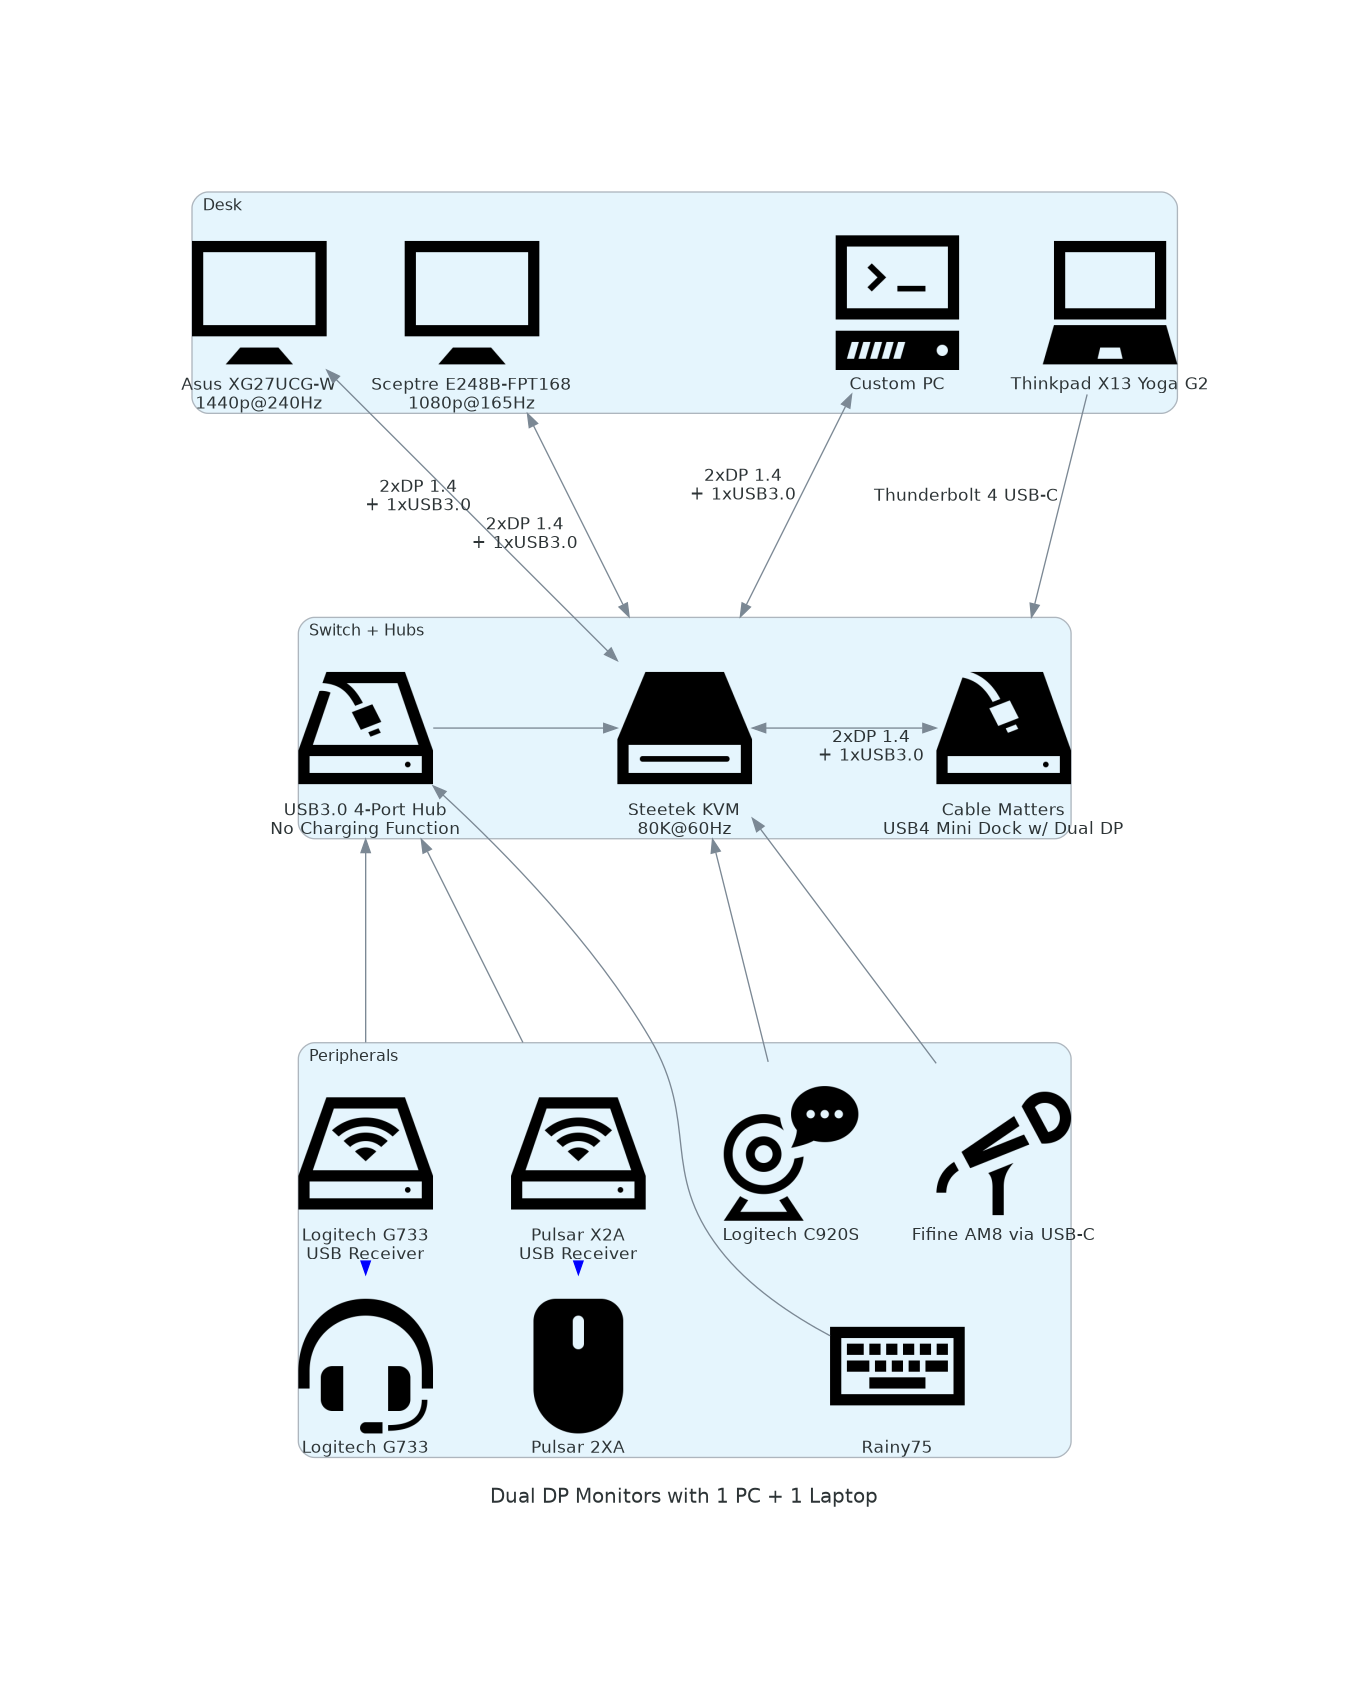
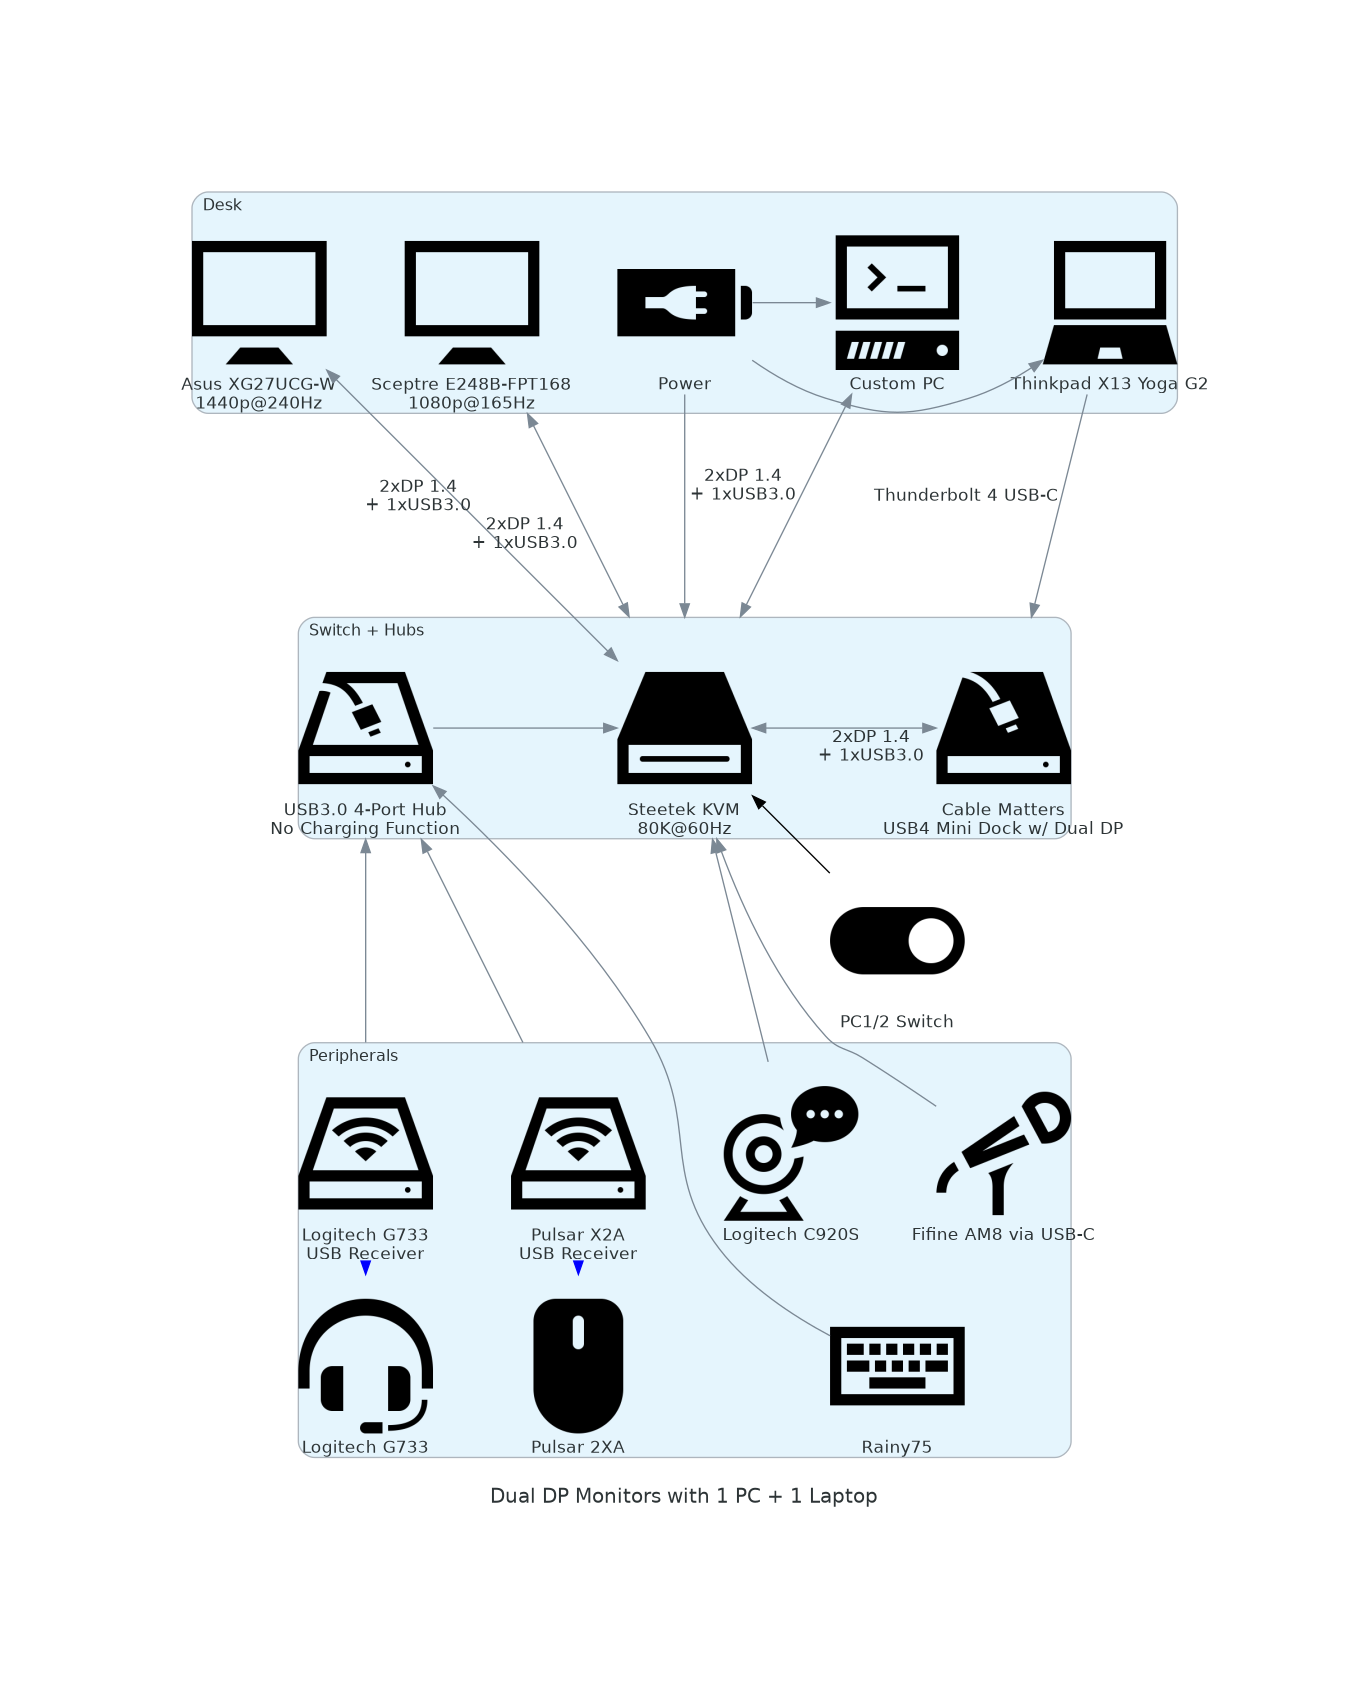
Edited intro to README.md

Changed region(s): [[0.5829, 0.5278, 0.7056, 0.621], [0.4295, 0.1552, 0.5522, 0.2484], [0.5522, 0.4657, 0.5829, 0.4968]]

diff --git a/main.py b/main.py
@@ -20,6 +20,9 @@ with Diagram("\nDual DP Monitors with 1 PC + 1 Laptop",
     direction="TB",
     graph_attr=graph_attr) as diag:
 
+    outlet = Custom("Power", "./icons/outlet.png", pin="true", pos="2,5")
+    switch = Custom("PC1/2 Switch", "./icons/switch.png", pin="true", pos="3,2")
+
     with Cluster("Desk"):
         with Cluster("Monitors"):
             main_screen = Custom("Asus XG27UCG-W\n1440p@240Hz", "./icons/screen.png", pin="true", pos="0,5")
@@ -44,7 +47,9 @@ with Diagram("\nDual DP Monitors with 1 PC + 1 Laptop",
             headset_usb = Custom("Logitech G733\nUSB Receiver", "./icons/usb.png", pin="true", pos="0.5,1")
             mouse_usb = Custom("Pulsar X2A\nUSB Receiver", "./icons/usb.png", pin="true", pos="1.5,1")
 
-    laptop >> Edge(label="Thunderbolt 4 USB-C")>>tb4_dock
+    laptop >> Edge(label="Thunderbolt 4 USB-C") >> tb4_dock
+    outlet >> [computer, laptop, kvm_switch]
+    
     kvm_switch << Edge(label="2xDP 1.4\n+ 1xUSB3.0") >> [
         main_screen,
         second_screen,
@@ -60,6 +65,8 @@ with Diagram("\nDual DP Monitors with 1 PC + 1 Laptop",
         mouse_usb,
         keyboard,
     ]
+    kvm_switch << Edge(color="yellow,") << switch
+
     headset_usb >> Edge(color="blue", style="dashed") >> headset
     mouse_usb >> Edge(color="blue", style="dashed") >> mouse
     

diff --git a/README.md b/README.md
@@ -1,11 +1,16 @@
+#KVM Setup Dual Displays with 1 PC + 1 Laptop
+##A solution for home office users with a two devices and way too many peripherals to manage
+
+#The Problem
 When I started WFH, I had a problem. I was constantly swapping cables from my home PC to my work laptop trying to use the personally curated selection of peripherals I already had. Instead of buying another keyboard, mouse, etc. and creating a separate workspace, I needed a solution that would make this switch between my PC and laptop frictionless. I had a few requirements going into my research. 
 
-Requirements:
-- Support Dual DisplayPort 1.4
-- Simultaneously handle 1440p@240Hz & 1080p@165Hz
-- EDID emulation (more on that later)
-- Enough ports for at least 4 USB devices (keyboard, mouse, microphone, webcam)
+#Requirements
+*Support Dual DisplayPort 1.4
+*Simultaneously handle 1440p@240Hz & 1080p@165Hz
+*EDID emulation (more on that later)
+*Enough ports for at least 4 USB devices (keyboard, mouse, microphone, webcam)
+
 <picture>
-  <source srcset="./kvm_setup.png" media="(prefers-color-scheme: light)">
+  <source srcset="./kvm_setup.png" width=50%>
   <img src="./kvm_setup.png">
 </picture>
